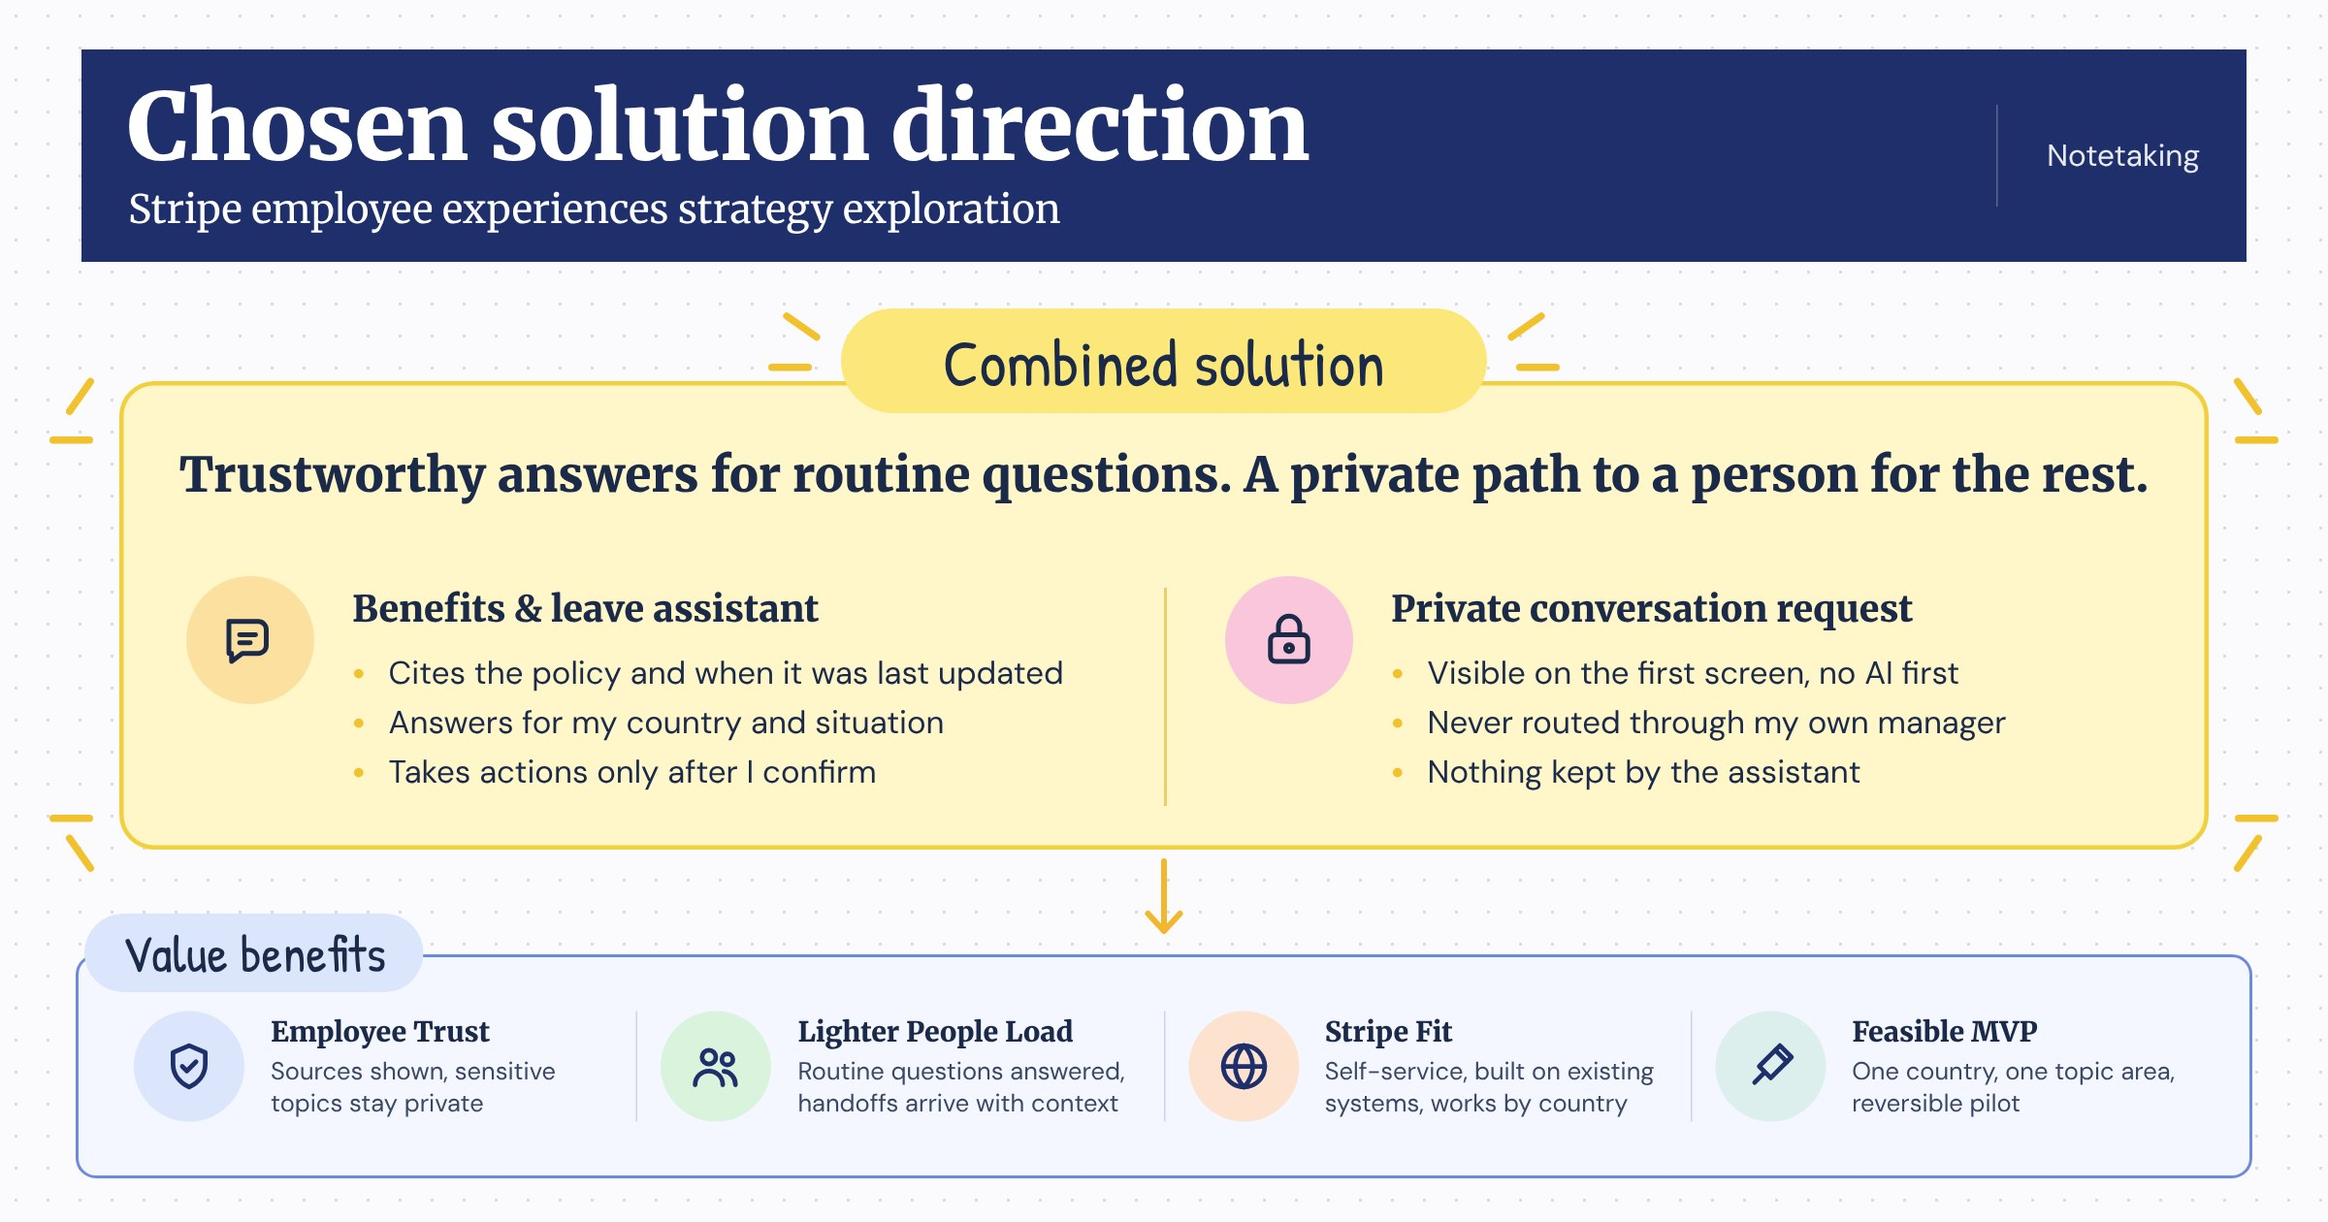
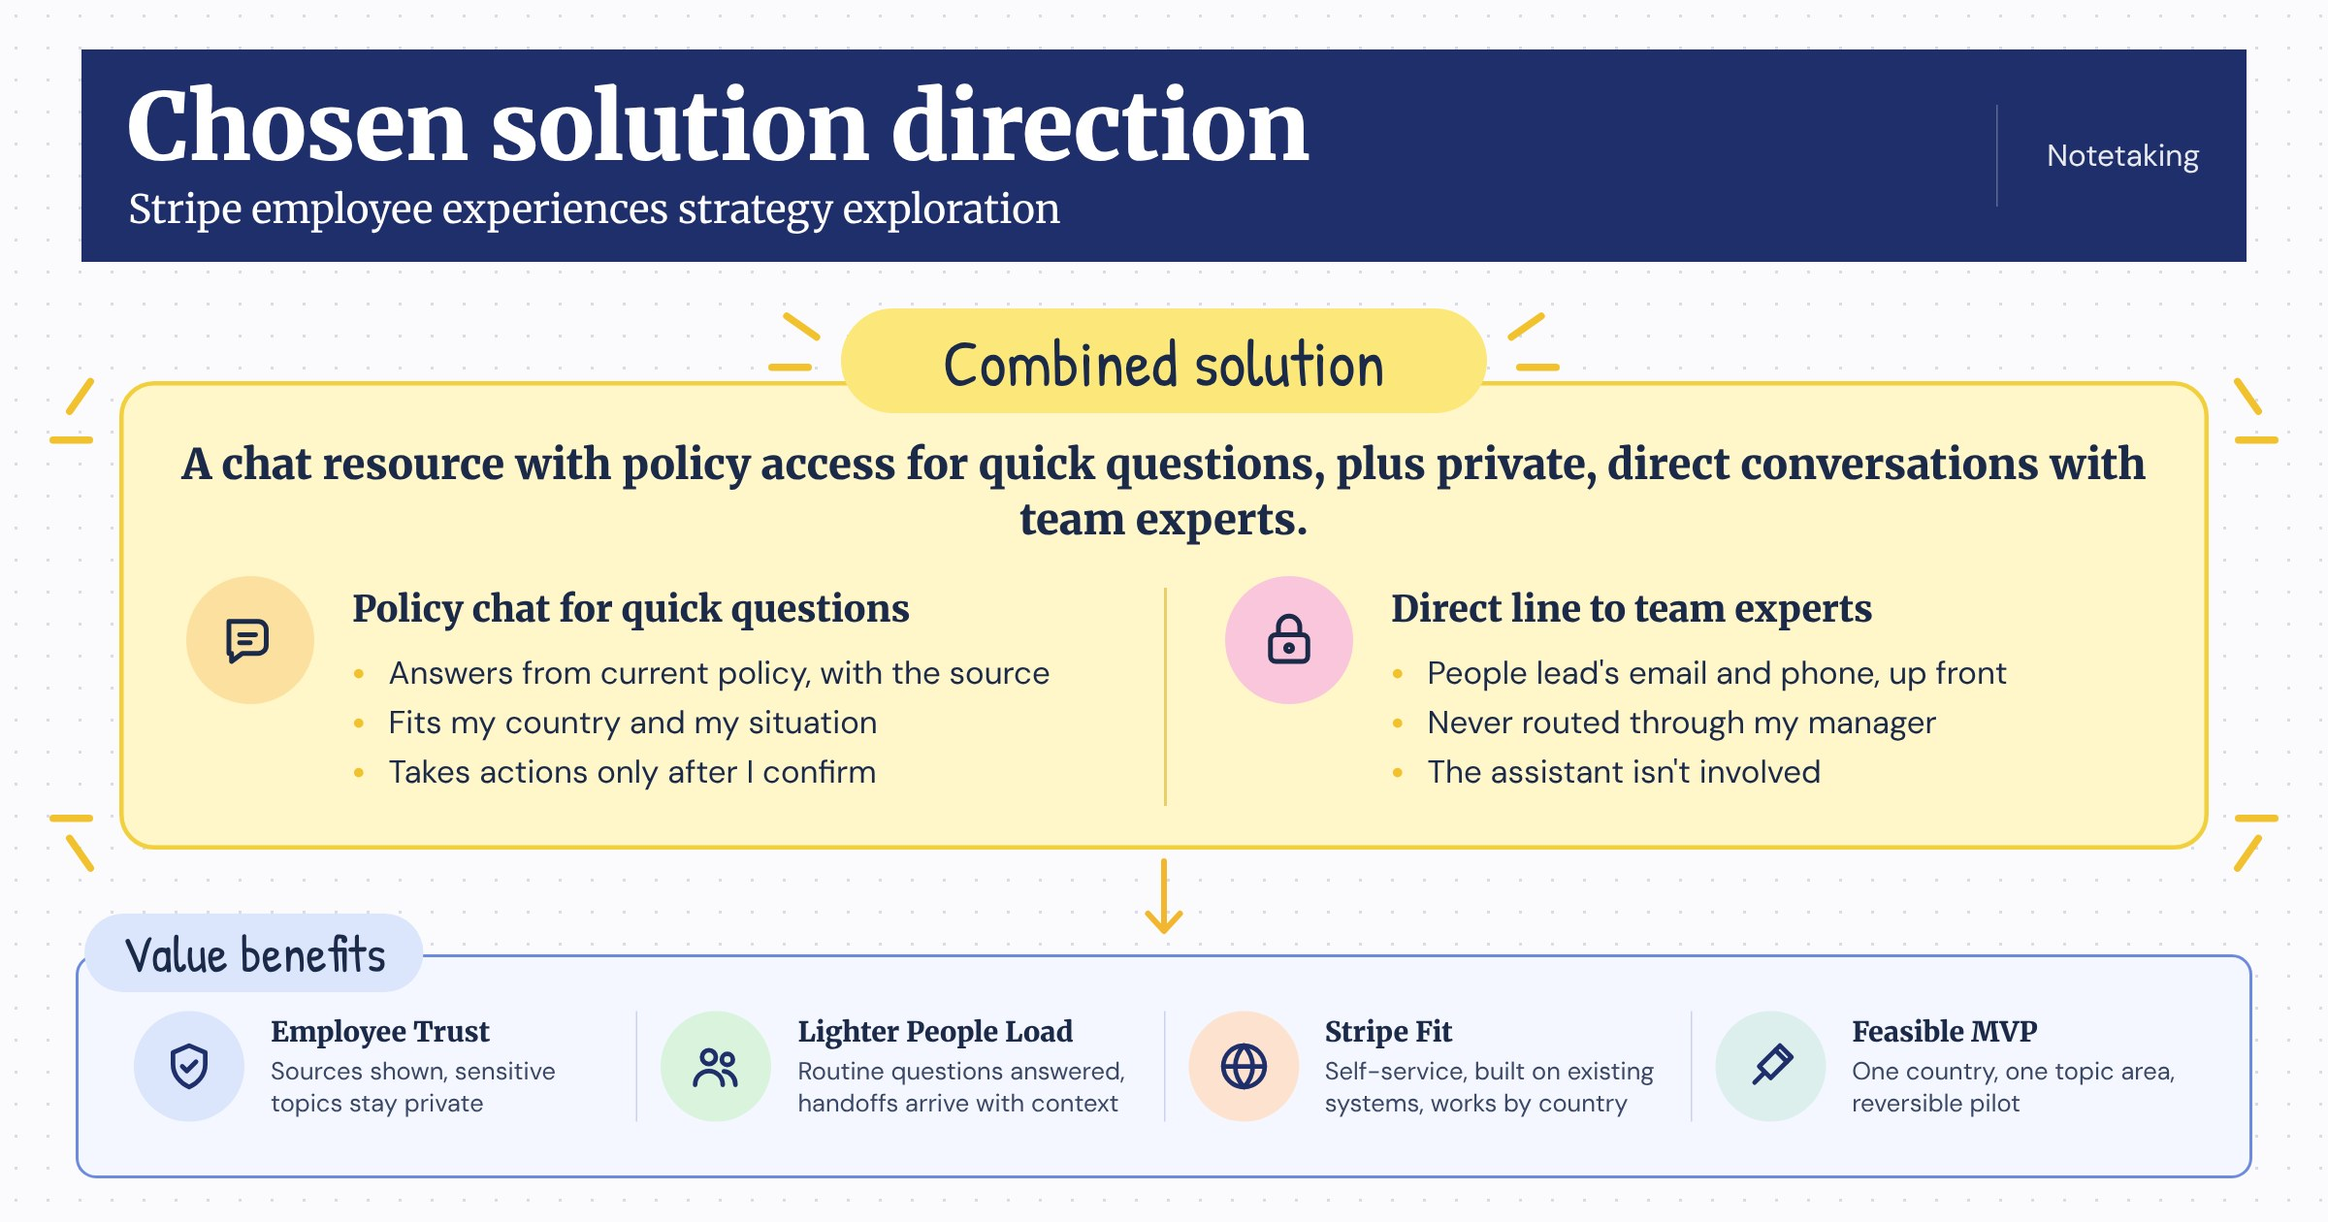
Restructure Stripe draft: AI levels section, clearer solution, placeholder sections
Claude-Session: https://claude.ai/code/session_01XF7k1YqiAUVVFY4gitzFxY

diff --git a/stripe.html b/stripe.html
@@ -79,9 +79,9 @@ a{color:#FDF6DC}a:hover{color:#F4AE55}
 <p style="margin: 0; font-size: 20px; line-height: 1.75; color: #1F3F5C">Because my real sample is small, I treat the simulated findings as directional until I can test them with more people.</p>
 <p style="margin: 0; font-size: 20px; line-height: 1.75; color: #1F3F5C">That led me to one problem: <strong>Employees can't easily get trustworthy answers to benefits and leave questions, or privately reach the right person when the topic is sensitive.</strong></p>
 
-<h2 style="margin: 56px 0 0; display: flex; gap: 20px; align-items: baseline; font-family: 'DM Sans', sans-serif; font-weight: 500; font-size: 34px; line-height: 1.2; color: #2E5A81"><span style="font-family: 'Instrument Serif', serif; font-weight: 400; font-size: 44px; color: #C8403F">03</span>Choosing a solution: a framework</h2>
+<h2 style="margin: 56px 0 0; display: flex; gap: 20px; align-items: baseline; font-family: 'DM Sans', sans-serif; font-weight: 500; font-size: 34px; line-height: 1.2; color: #2E5A81"><span style="font-family: 'Instrument Serif', serif; font-weight: 400; font-size: 44px; color: #C8403F">03</span>Creating a framework to narrow solutions</h2>
 <p style="margin: 0; font-size: 20px; line-height: 1.75; color: #1F3F5C">With the problem clear, I scored five possible solutions on three lenses: employee trust, People team workload, and fit with Stripe's goals. Trust gets the most weight, because if employees don't trust the answers, nothing else matters. Every candidate also had to pass a risk check: a reversible pilot, measurable within a quarter, and backed by more than one source.</p>
-<figure style="margin: 12px 0; display: flex; flex-direction: column; gap: 10px"><img src="images/stripe/framework.jpg" alt="How I chose the solution: a Trust, Load, Fit Venn diagram (Employee Trust 40%, People Team Load 30%, Stripe Fit 30%) next to a scorecard of five candidate solutions. A benefits and leave assistant scores highest at 4.6 and is chosen. A general HR chatbot and AI-drafted performance reviews are rejected." width="2400" height="1170" style="width: 100%; height: auto; display: block; border-radius: 12px; border: 1px solid #E6DDCB"></figure>
+<figure style="margin: 12px 0; display: flex; flex-direction: column; gap: 10px"><img src="images/stripe/framework.jpg" alt="Creating a framework to narrow solutions: a Trust, Load, Fit Venn diagram (Employee Trust 40%, People Team Load 30%, Stripe Fit 30%) next to a scorecard of five candidate solutions. A benefits and leave assistant scores highest at 4.6 and is chosen. A general HR chatbot and AI-drafted performance reviews are rejected." width="2400" height="1170" style="width: 100%; height: auto; display: block; border-radius: 12px; border: 1px solid #E6DDCB"></figure>
 <p style="margin: 0; font-size: 20px; line-height: 1.75; color: #1F3F5C">The rejected options mattered as much as the winner. A general HR chatbot was too broad to test well, and AI-drafted performance reviews would save time but hurt trust.</p>
 <p style="margin: 0; font-size: 20px; line-height: 1.75; color: #1F3F5C">That pointed to one clear direction: <strong>a benefits and leave assistant for routine questions, with a direct line to a People lead for anything sensitive.</strong></p>
 
@@ -91,27 +91,34 @@ a{color:#FDF6DC}a:hover{color:#F4AE55}
 <p style="margin: 0; font-size: 20px; line-height: 1.75; color: #1F3F5C">I also guessed that written records would feel protective to managers and risky to employees. The interviews didn't support that. The claims specialist, an individual contributor, feels protected by records because she trusts the rules. What mattered was trust, not role.</p>
 
 <h2 style="margin: 56px 0 0; display: flex; gap: 20px; align-items: baseline; font-family: 'DM Sans', sans-serif; font-weight: 500; font-size: 34px; line-height: 1.2; color: #2E5A81"><span style="font-family: 'Instrument Serif', serif; font-weight: 400; font-size: 44px; color: #C8403F">05</span>The direction I chose</h2>
-<p style="margin: 0; font-size: 20px; line-height: 1.75; color: #1F3F5C">I combined two ideas: a benefits and leave assistant for routine questions, and a private conversation request for anything sensitive.</p>
-<figure style="margin: 12px 0; display: flex; flex-direction: column; gap: 10px"><img src="images/stripe/chosen-direction.jpg" alt="Chosen solution direction: trustworthy answers for routine questions and a private path to a person for the rest. A benefits and leave assistant that cites its sources, answers for the employee's country and situation, and acts only after confirmation, plus a private conversation request that is visible on the first screen, never routed through the employee's own manager, and not kept by the assistant." width="2400" height="1260" style="width: 100%; height: auto; display: block; border-radius: 12px; border: 1px solid #E6DDCB"></figure>
-<p style="margin: 0; font-size: 20px; line-height: 1.75; color: #1F3F5C">The core product question is how much the AI should do on its own. I decided request by request, based on how sensitive it is and whether it can be undone:</p>
+<p style="margin: 0; font-size: 20px; line-height: 1.75; color: #1F3F5C">I combined two ideas: a chat resource with policy access for quick questions, and private, direct conversations with team experts for anything sensitive.</p>
+<figure style="margin: 12px 0; display: flex; flex-direction: column; gap: 10px"><img src="images/stripe/chosen-direction.jpg" alt="Chosen solution direction: a chat resource with policy access for quick questions, plus private, direct conversations with team experts. Policy chat answers from current policy with the source, fits the employee's country and situation, and takes actions only after they confirm. The direct line shows the People lead's email and phone up front, is never routed through the employee's manager, and doesn't involve the assistant." width="2400" height="1260" style="width: 100%; height: auto; display: block; border-radius: 12px; border: 1px solid #E6DDCB"></figure>
+<h2 style="margin: 56px 0 0; display: flex; gap: 20px; align-items: baseline; font-family: 'DM Sans', sans-serif; font-weight: 500; font-size: 34px; line-height: 1.2; color: #2E5A81"><span style="font-family: 'Instrument Serif', serif; font-weight: 400; font-size: 44px; color: #C8403F">06</span>How much the AI decides</h2>
+<p style="margin: 0; font-size: 20px; line-height: 1.75; color: #1F3F5C">The core product question is how much the AI should do on its own. I placed each type of request on a level, based on how sensitive it is and whether it can be undone:</p>
 <div style="border: 1px solid #E6DDCB; border-radius: 12px; overflow: hidden; font-family: 'DM Sans', sans-serif"><table style="width: 100%; border-collapse: collapse; font-size: 17px; line-height: 1.45; color: #1F3F5C">
 <thead><tr style="background: #F7F1E3; text-align: left"><th style="padding: 14px 18px; font-size: 12px; letter-spacing: 0.12em; text-transform: uppercase; color: #86616C">Level</th><th style="padding: 14px 18px; font-size: 12px; letter-spacing: 0.12em; text-transform: uppercase; color: #86616C">Example</th></tr></thead>
 <tbody>
-<tr style="border-top: 1px solid #EFE7D6"><td style="padding: 14px 18px; font-weight: 700; width: 42%">Answer, with the source</td><td style="padding: 14px 18px">"What's my dental deductible?"</td></tr>
-<tr style="border-top: 1px solid #EFE7D6"><td style="padding: 14px 18px; font-weight: 700">Act after I confirm</td><td style="padding: 14px 18px">"Add my newborn to my plan"</td></tr>
-<tr style="border-top: 1px solid #EFE7D6"><td style="padding: 14px 18px; font-weight: 700">Recommend, then offer a person</td><td style="padding: 14px 18px">"Should I take family leave or short-term disability?"</td></tr>
-<tr style="border-top: 1px solid #EFE7D6"><td style="padding: 14px 18px; font-weight: 700">Hand off with context</td><td style="padding: 14px 18px">"I need leave for a family medical crisis"</td></tr>
-<tr style="border-top: 1px solid #EFE7D6; background: #FFF6D6"><td style="padding: 14px 18px; font-weight: 700">Private conversation, no AI</td><td style="padding: 14px 18px">Reporting harassment or a manager's misconduct</td></tr>
+<tr style="border-top: 1px solid #EFE7D6"><td style="padding: 14px 18px; width: 46%"><strong>Level 1</strong><br>AI answers, with the source</td><td style="padding: 14px 18px">"What's my dental deductible?"</td></tr>
+<tr style="border-top: 1px solid #EFE7D6"><td style="padding: 14px 18px; width: 46%"><strong>Level 2</strong><br>AI acts after you confirm</td><td style="padding: 14px 18px">"Add my newborn to my plan"</td></tr>
+<tr style="border-top: 1px solid #EFE7D6"><td style="padding: 14px 18px; width: 46%"><strong>Level 3</strong><br>AI recommends, then offers a person</td><td style="padding: 14px 18px">"Should I take family leave or short-term disability?"</td></tr>
+<tr style="border-top: 1px solid #EFE7D6"><td style="padding: 14px 18px; width: 46%"><strong>Level 4</strong><br>AI hands off to a person, with context</td><td style="padding: 14px 18px">"I need leave for a family medical crisis"</td></tr>
+<tr style="border-top: 1px solid #EFE7D6; background: #FFF6D6"><td style="padding: 14px 18px; width: 46%"><strong>Level 5</strong><br>Straight to a person, no AI</td><td style="padding: 14px 18px">Reporting harassment or a manager's misconduct</td></tr>
 </tbody></table></div>
-<p style="margin: 0; font-size: 20px; line-height: 1.75; color: #1F3F5C">For the private conversation request, the product should be honest about what happens next. Once HR knows about some issues, the company may be required to act, so it shouldn't promise more confidentiality than it can keep. Legal and Employee Relations would own that wording.</p>
-<p style="margin: 0; font-size: 20px; line-height: 1.75; color: #1F3F5C">Privacy also showed up as two different needs. Some people trust HR but want sensitive details limited to whoever needs them, which calls for role-based access: employees, managers, and People partners each see only what their role requires. Others distrust HR itself, so the private path should include an option outside the usual HR route, such as an anonymous channel. Managers, on the other hand, get a clear record of what they asked and what HR said.</p>
+<p style="margin: 0; font-size: 20px; line-height: 1.75; color: #1F3F5C">At Level 5, the product should be honest about what happens next. Once HR knows about some issues, the company may be required to act, so it shouldn't promise more confidentiality than it can keep. Legal and Employee Relations would own that wording.</p>
+<p style="margin: 0; font-size: 20px; line-height: 1.75; color: #1F3F5C">Privacy also showed up as two different needs. Some people trust HR but want sensitive details limited to whoever needs them, which calls for role-based access: employees, managers, and People partners each see only what their role requires. Others distrust HR itself, which a direct line to a People lead doesn't fully solve, so I'd test whether an option outside the usual HR route is needed. Managers, on the other hand, get a clear record of what they asked and what HR said.</p>
 
-<h2 style="margin: 56px 0 0; display: flex; gap: 20px; align-items: baseline; font-family: 'DM Sans', sans-serif; font-weight: 500; font-size: 34px; line-height: 1.2; color: #2E5A81"><span style="font-family: 'Instrument Serif', serif; font-weight: 400; font-size: 44px; color: #C8403F">06</span>Mocking it up</h2>
-<p style="margin: 0; font-size: 20px; line-height: 1.75; color: #1F3F5C">To move fast, I used Claude and a public example of Stripe's product style to get the look and layout of a first screen in an afternoon. Then I let my interviews decide what the screen actually shows and includes.</p>
+<h2 style="margin: 56px 0 0; display: flex; gap: 20px; align-items: baseline; font-family: 'DM Sans', sans-serif; font-weight: 500; font-size: 34px; line-height: 1.2; color: #2E5A81"><span style="font-family: 'Instrument Serif', serif; font-weight: 400; font-size: 44px; color: #C8403F">07</span>Mocking it up</h2>
+<p style="margin: 0; font-size: 20px; line-height: 1.75; color: #1F3F5C">Using the resources I had, I worked with Claude and a public example of Stripe's product style to create the look and layout of a first screen. Then I let my interviews decide what the screen actually shows and includes.</p>
 <figure style="margin: 12px 0; display: flex; flex-direction: column; gap: 10px"><img src="images/stripe/mockup.jpg" width="2400" height="1500" alt="Concept mockup of a People Help assistant. An employee asks what they need to do to request FMLA. The answer says the FMLA policy gives up to 12 weeks of job-protected leave and lists three steps, cites the policy with its last-updated date, and offers buttons to start the request or talk to a benefits specialist. The sidebar links to My requests, Calendar, My pay, and Policies. Side cards show time off balances and the HR People lead's email and phone for private conversations." style="width: 100%; height: auto; display: block; border-radius: 12px; box-shadow: 0 12px 30px rgba(20,40,60,0.12)"><figcaption style="font-size: 15px; color: #86616C">Concept: my mockup, not a real Stripe screen. Names, numbers, and dates are illustrative.</figcaption></figure>
 <p style="margin: 0; font-size: 20px; line-height: 1.75; color: #1F3F5C">As I designed, I kept pulling the product back toward how people already get help:</p>
 <ul style="margin: 0; padding-left: 24px; display: flex; flex-direction: column; gap: 12px; font-size: 20px; line-height: 1.75; color: #1F3F5C"><li><strong>Calendar, policies, and pay stay one click away.</strong> The claims specialist likes to look things up herself instead of asking AI every time.</li><li><strong>Private needs go straight to a named person.</strong> I started designing a new request form, then realized people already email or call. So the screen just shows their People lead's email and phone, and when to expect a reply.</li><li><strong>The AI explains the policy; a person confirms.</strong> The answer says what the policy allows instead of telling someone they're eligible.</li><li><strong>Pay is a link, not an AI feature yet.</strong> Explaining pay and bonuses matters, as my Germany interview showed, but it's a later phase.</li></ul>
 
+<h2 style="margin: 56px 0 0; display: flex; gap: 20px; align-items: baseline; font-family: 'DM Sans', sans-serif; font-weight: 500; font-size: 34px; line-height: 1.2; color: #2E5A81"><span style="font-family: 'Instrument Serif', serif; font-weight: 400; font-size: 44px; color: #C8403F">08</span>A realistic 3-month roadmap</h2>
+<p style="margin: 0; font-size: 18px; line-height: 1.6; color: #86616C; font-style: italic">[Draft: coming next]</p>
+<h2 style="margin: 56px 0 0; display: flex; gap: 20px; align-items: baseline; font-family: 'DM Sans', sans-serif; font-weight: 500; font-size: 34px; line-height: 1.2; color: #2E5A81"><span style="font-family: 'Instrument Serif', serif; font-weight: 400; font-size: 44px; color: #C8403F">09</span>Outcomes I would measure</h2>
+<p style="margin: 0; font-size: 18px; line-height: 1.6; color: #86616C; font-style: italic">[Draft: coming next]</p>
+<h2 style="margin: 56px 0 0; display: flex; gap: 20px; align-items: baseline; font-family: 'DM Sans', sans-serif; font-weight: 500; font-size: 34px; line-height: 1.2; color: #2E5A81"><span style="font-family: 'Instrument Serif', serif; font-weight: 400; font-size: 44px; color: #C8403F">10</span>What I'd do with more information</h2>
+<p style="margin: 0; font-size: 18px; line-height: 1.6; color: #86616C; font-style: italic">[Draft: coming next]</p>
 <p style="margin: 24px 0 0; font-size: 15px; line-height: 1.6; color: #86616C">Sources: <a href="https://www.shrm.org/advocacy/shrm-reveals-top-5-workplace-issues-for-2026" target="_blank" rel="noopener" style="color: #86616C">SHRM Top 5 Workplace Issues for 2026</a> · <a href="https://www.workday.com/en-us/perspectives/ai/ai-at-work-september.html" target="_blank" rel="noopener" style="color: #86616C">Workday, AI at work survey</a> · <a href="https://tools.prnewswire.com/en-us/live/20823/release/20260115EN61063" target="_blank" rel="noopener" style="color: #86616C">Applaud, 2026 State of HR Service</a> · <a href="https://www.hcamag.com/ca/specialization/leadership/completely-unmanageable-helping-managers-deal-with-impossible-workloads/450510" target="_blank" rel="noopener" style="color: #86616C">Gartner on manager workloads</a> · <a href="https://www.staffingindustry.com/news/global-daily-news/most-workers-say-their-workload-has-surged-some-cant-deliver-results" target="_blank" rel="noopener" style="color: #86616C">Korn Ferry Workforce 2026</a> · Stripe public job postings</p>
 
 <div style="margin-top: 56px; padding-top: 32px; border-top: 1px solid #D9CFBF; display: flex; justify-content: space-between; align-items: center; font-family: 'DM Sans', sans-serif; font-size: 17px"><a href="index.html" style="color: #2E5A81; text-decoration: none; font-weight: 700">← Back to home</a><a href="amplify.html" style="color: #2E5A81; text-decoration: none; font-weight: 700">See the Amplify case study →</a></div>
